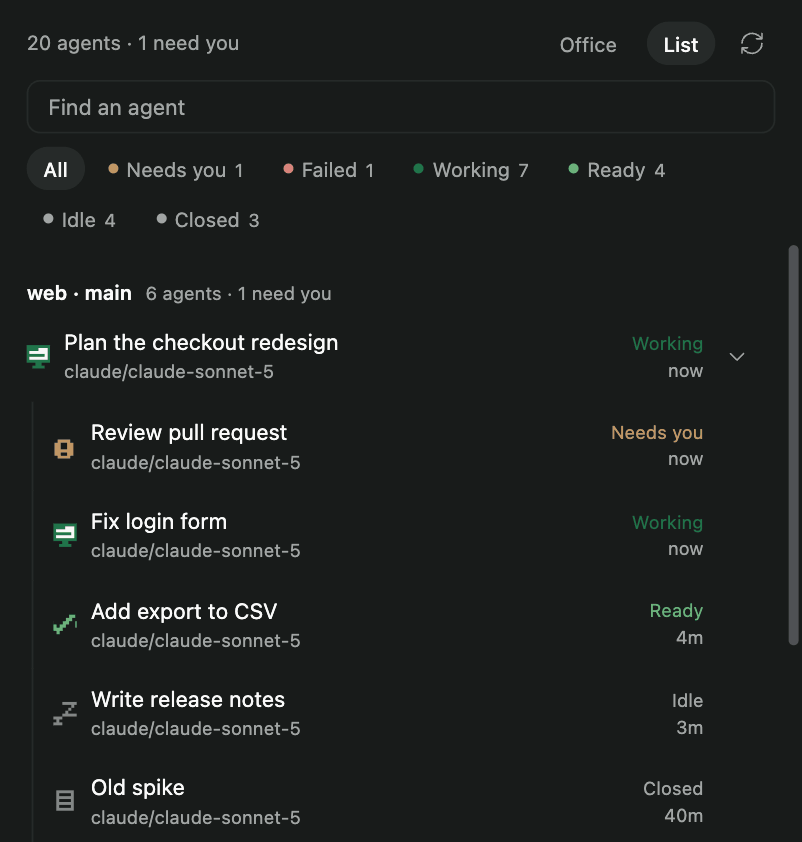
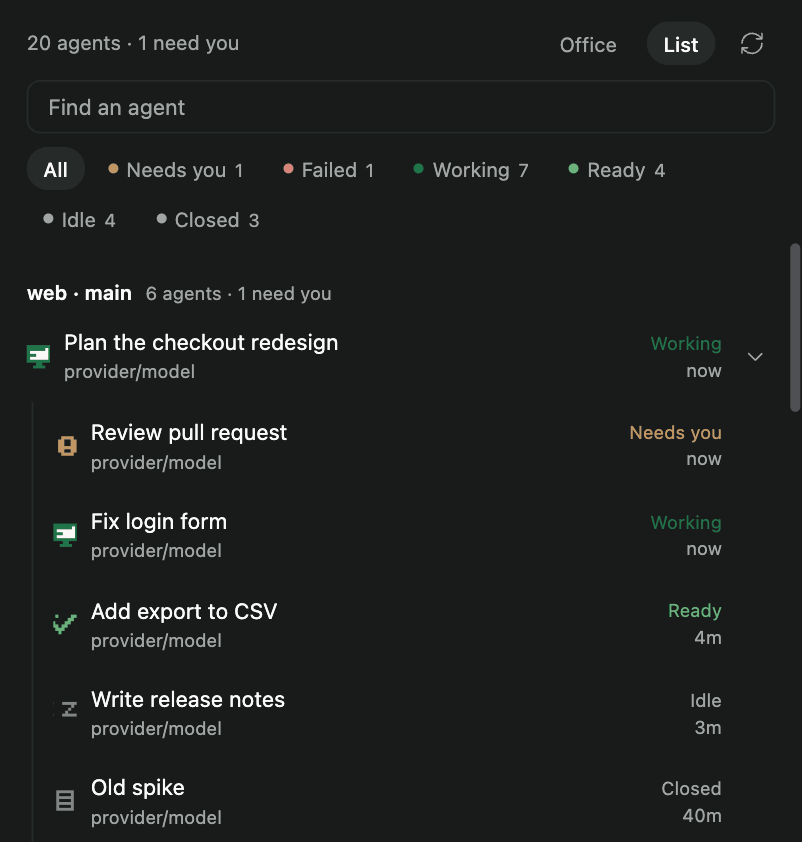
docs: acknowledgements, clone URL, and a generic provider/model string in the List pictures

diff --git a/README.md b/README.md
@@ -1,6 +1,6 @@
 # Agent Lobby
 
-A Paseo plugin that shows your agents as a small pixel-art office. Each workspace is a room, each
+A plugin that shows your agents as a small pixel-art office. Each workspace is a room, each
 agent has a desk, and a character's pose tells you what its agent is doing: typing, waiting for
 you, finished, resting, or gone home. It lives in a side pane and is meant to be glanced at.
 
@@ -119,13 +119,12 @@ agents: only the daemon's own record of an agent-to-agent message, with its veri
 
 Every sprite, tile and the two pixel fonts are original and drawn in `client/pixel/` as code: text
 grids, a palette taken from the Paseo theme, and a small PNG encoder. No third-party asset is
-bundled. The idea of agents as office workers owes a debt to
-[agent-town](https://github.com/geezerrrr/agent-town); none of its art, tiles or map is used.
+bundled.
 
 ## Install
 
 ```bash
-git clone <this repository> agent-lobby
+git clone https://github.com/linhmh8/agent-lobby
 cd agent-lobby
 npm install
 paseo plugin install "$PWD"
@@ -160,3 +159,20 @@ paseo plugin reload lobby    # recompile and reload in the running app
   archived, the rest simply go.
 - Bubbles drop Vietnamese tone marks and other accents (`Lỗi` reads `Loi`), and at this size their
   text is something to lean in for, not to read across the room.
+
+## Acknowledgements
+
+- [agent-town](https://github.com/geezerrrr/agent-town) for the idea of agents as workers in a
+  pixel office, with seats, wandering and speech bubbles as the language of state. None of its
+  code, art, tiles or map is used here.
+- [Gather](https://www.gather.town) for the picture of a shared office seen from above.
+- [Bàn về multi-agent orchestration và mô hình SLP](https://vhlam.com/article/agent-orchestration-multi-agent-slp),
+  the article that inspired this project: it is what made orchestrating agents a daily practice,
+  and it opened up what working with agents can be. With gratitude to its author.
+- [Paseo](https://paseo.sh) ([source](https://github.com/getpaseo/paseo)) and its plugin SDK, which
+  this runs on and whose plugin documentation it follows.
+- [React Native](https://reactnative.dev) and
+  [React Native for Web](https://necolas.github.io/react-native-web/), the primitives everything
+  here is drawn with.
+
+Licensed under MIT, as declared in `package.json`.
